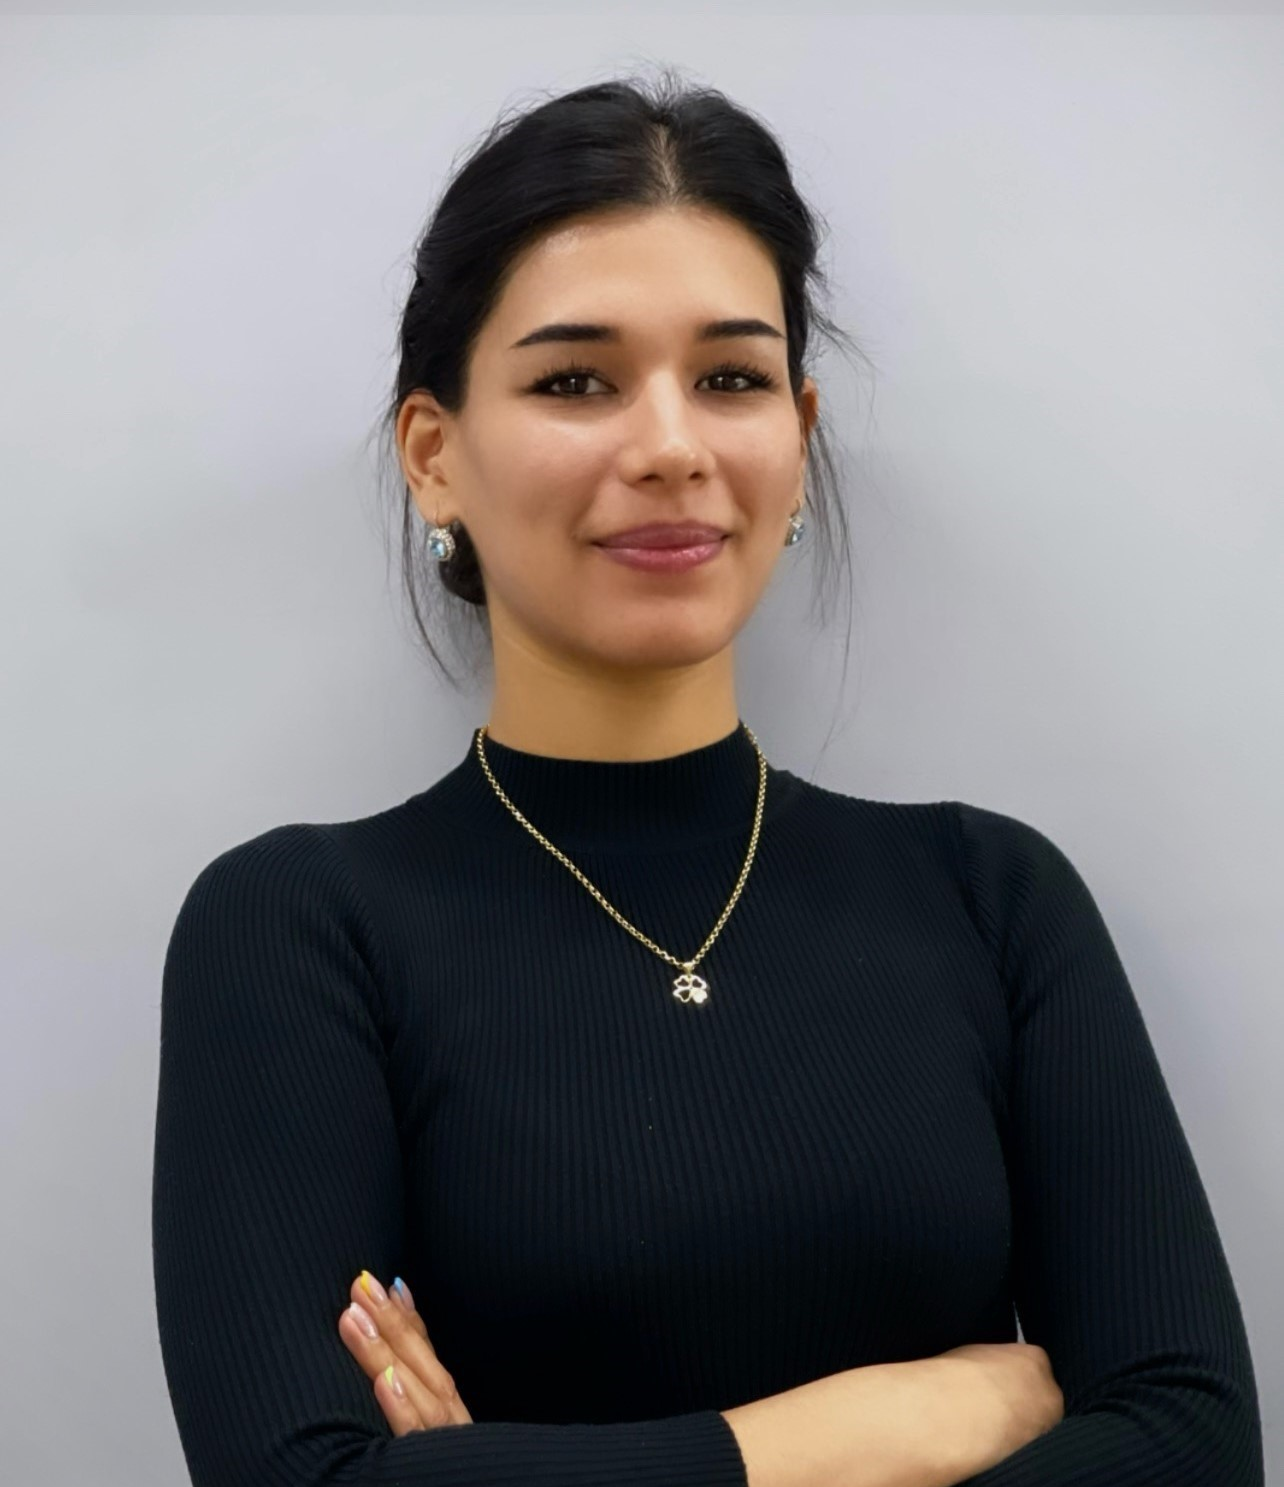
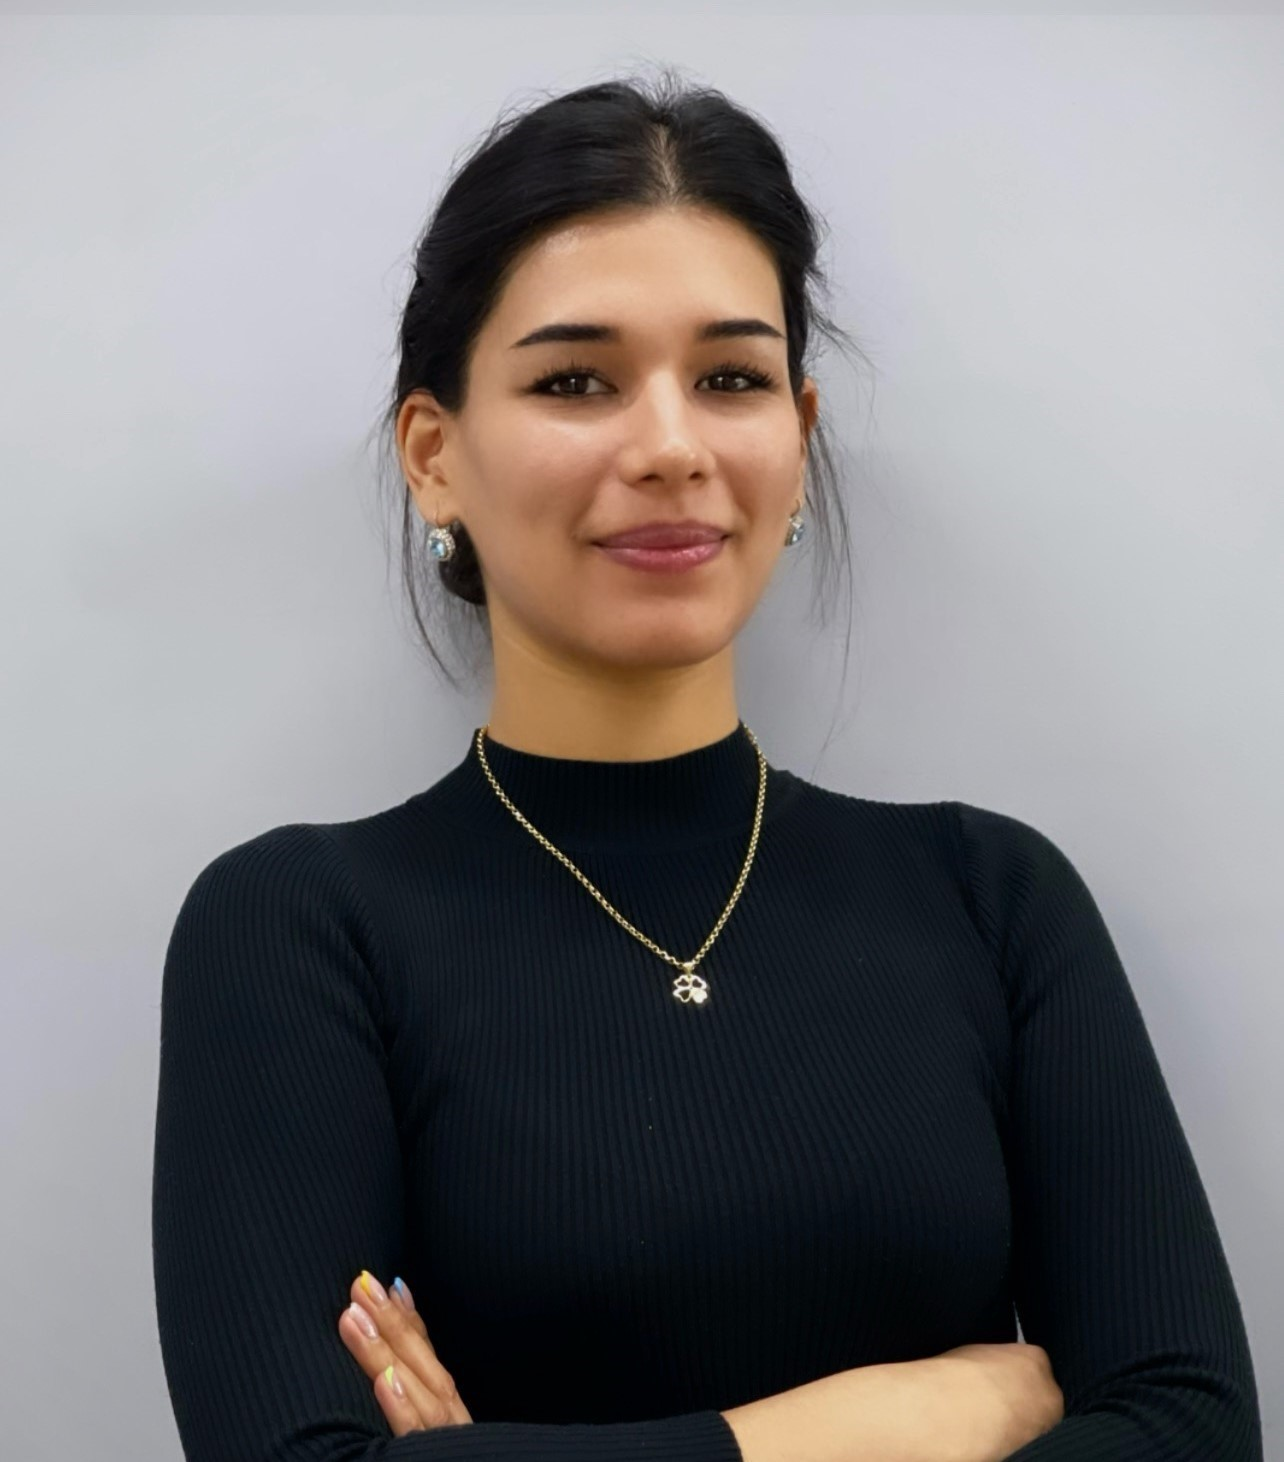
updated image

diff --git a/src/constants/index.jsx b/src/constants/index.jsx
@@ -41,17 +41,17 @@ import Bobur from "../assets/bobur1.jpg";
 import Dilshod from "../assets/dilshod.jpg";
 import Jamshid from "../assets/jamshid1.jpg";
 import Baxtior from "../assets/behzodf.jpg";
-import Mironchik from "../assets/akamiron.jpg";
+import Mironchik from "../assets/mironchik1.jpg";
 import Mirxon from "../assets/mirxon.jpg";
-import Murod from "../assets/akamiron.jpg";
+import Murod from "../assets/murod.jpg";
 import Nafisa from "../assets/nafisa.jpg";
 import Darya from "../assets/darya.jpg";
 import Polina from "../assets/polina.jpg";
 import Samiya from "../assets/samiya.jpg";
 import Sadoqat from "../assets/sadoqat.jpg";
 import Apazarnigor from "../assets/apazarnigor.jpg";
-import Nigina from "../assets/akamiron.jpg";
-import Dilnozaorg from "../assets/akamiron.jpg";
+import Nigina from "../assets/nig.jpg";
+import Dilnozaorg from "../assets/dilnozaorg.jpg";
 import Shaxinaorg from "../assets/shaxinaorg.jpg";
 import Mohinur from "../assets/albom.jpg";
 
@@ -295,7 +295,7 @@ export const teamMembers = [
       twitter: "",
       instagram: "",
     },
-    image: "",
+    image: Mironchik,
   },
   {
     id: 18,
@@ -317,7 +317,7 @@ export const teamMembers = [
       twitter: "",
       instagram: "",
     },
-    image: "",
+    image: Murod,
   },
   {
     id: 20,
@@ -394,7 +394,7 @@ export const teamMembers = [
       twitter: "",
       instagram: "",
     },
-    image: "",
+    image: Nigina,
   },
   {
     id: 27,
@@ -405,7 +405,7 @@ export const teamMembers = [
       twitter: "",
       instagram: "",
     },
-    image: "",
+    image: Dilnozaorg,
   },
   {
     id: 28,
